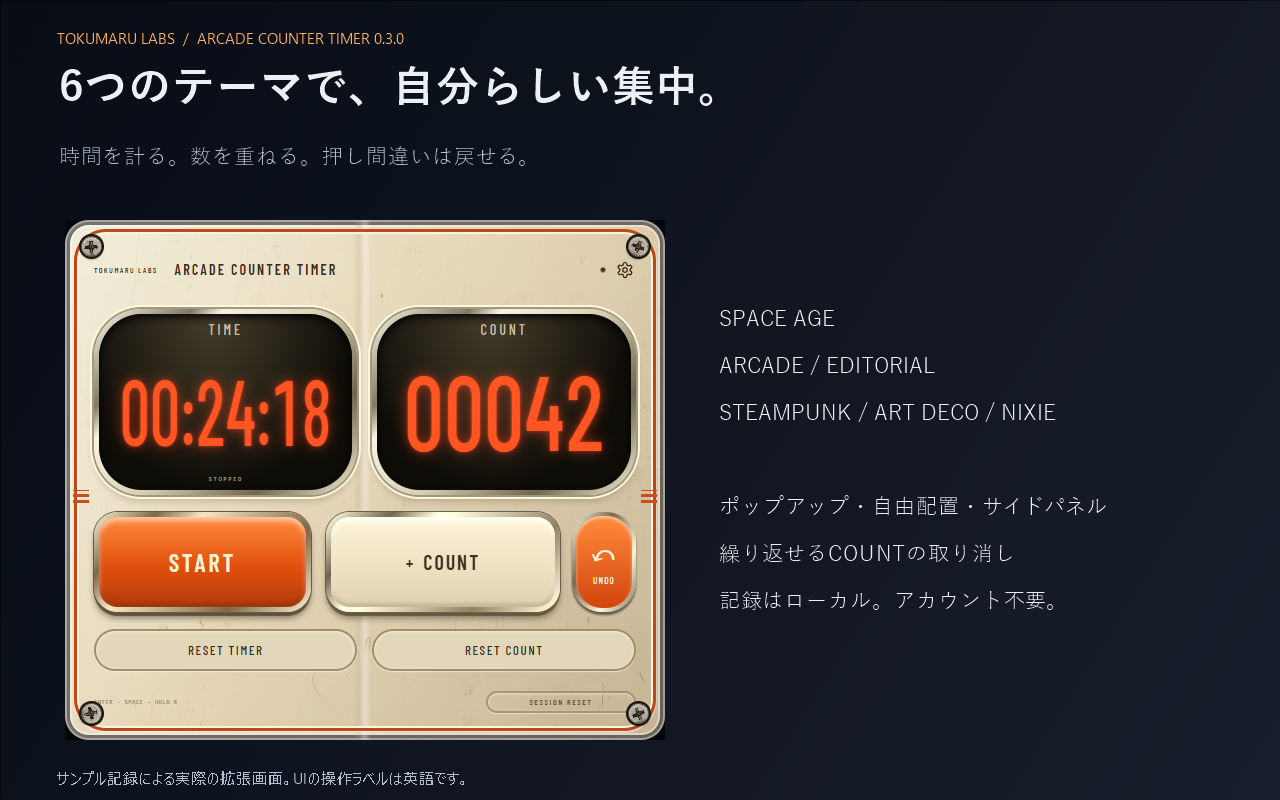
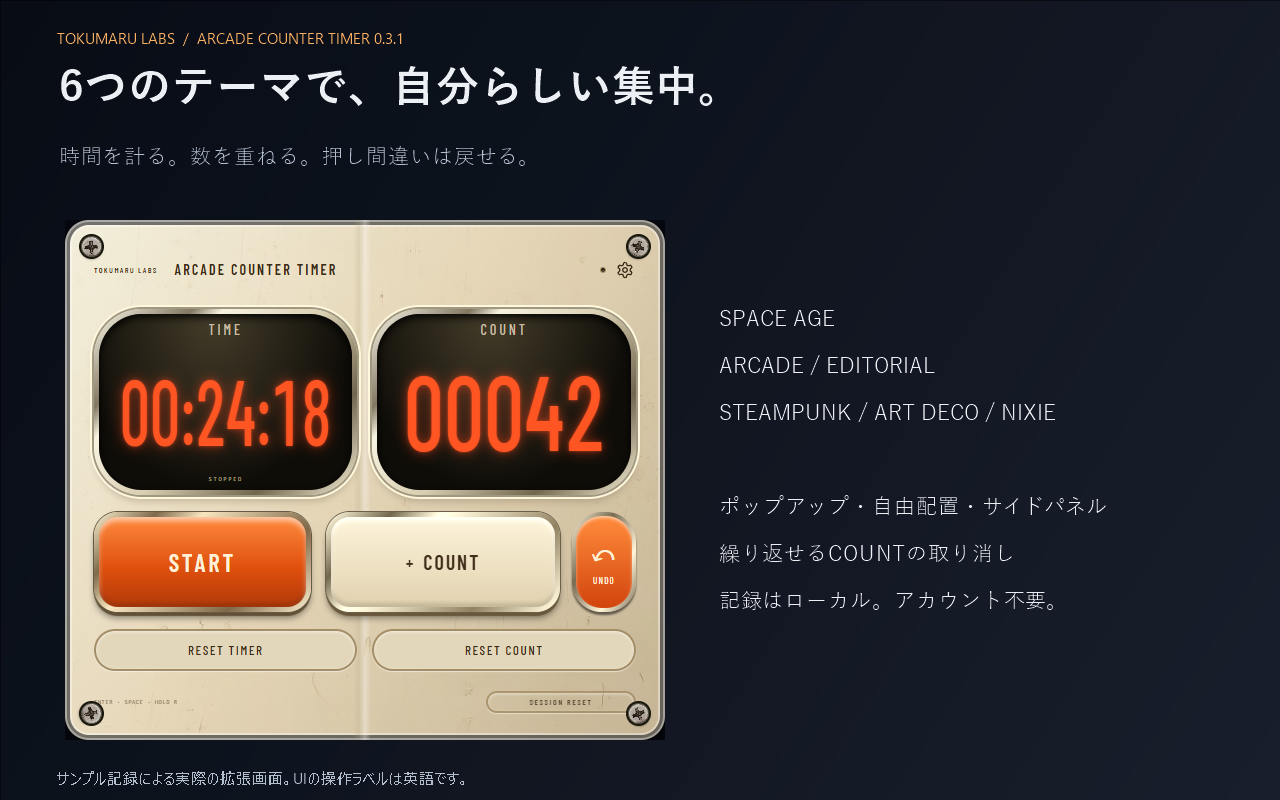
Fix Space Age red side decorations in 0.3.1

diff --git a/themes.css b/themes.css
@@ -64,7 +64,6 @@ body[data-material="true"] .theme-picker label{color:var(--blue)}body[data-mater
 
 /* SPACE AGE: a photographed enamel surface under a translucent overglaze. */
 .screen[data-theme="space-age"]{--bg-top:#ece4d0;--line:#a48c65;--dim:#68573c;--blue:#44341d;--orange:#ff5522;--orange-glow:#ff481c90;--red:#9e3517;--plate:#e7deca;--ink:#3c2b18;background:linear-gradient(125deg,#fffff0bb,#f5e6c988 45%,#ab997866),url('assets/themes/enamel-cream.jpg') center/cover}
-.screen[data-theme="space-age"] .material-hardware::before{content:'';position:absolute;inset:9px;border:3px solid #bf481a;border-radius:32px;box-shadow:0 1px 2px #fff,inset 0 0 0 2px #fbf4df}
 .screen[data-theme="space-age"] .view--main{background:linear-gradient(90deg,transparent 48%,#b7a98b40 49%,#fff5 50%,transparent 51%)}.screen[data-theme="space-age"] .clock{color:#b53d13}
 .screen[data-theme="space-age"] .timer,.screen[data-theme="space-age"] .countpad{border-radius:48px;background:radial-gradient(ellipse at 45% 0,#443d2a,#0f0d08 70%) padding-box,linear-gradient(135deg,#fffbed,#827862 22%,#f8f3e1 29%,#d9cfb2 52%,#71664e 77%,#f8f0d8) border-box}
 .screen[data-theme="space-age"] .undo-count{color:#fff2d9;background:linear-gradient(#ff8c3c,#d2440d) padding-box,linear-gradient(120deg,#fff5d7,#786c54 35%,#fff5d7 70%,#786c54) border-box}
@@ -191,7 +190,6 @@ body[data-material="true"] .release-notice{position:relative;inset:auto;grid-col
 .screen[data-theme="space-age"] .timer__value{scale:1 1.4}.screen[data-theme="space-age"] .countpad__value{scale:1 1.2}
 .screen[data-theme="art-deco"] .timer__value{scale:1 1.45}.screen[data-theme="art-deco"] .countpad__value{scale:1 1.3}
 .screen[data-theme="steampunk"] .timer__value{scale:1 1.2}.screen[data-theme="steampunk"] .countpad__value{scale:1 1.1}
-.screen[data-theme="space-age"] .material-hardware::after{content:'';position:absolute;left:8px;right:8px;top:52%;height:13px;background:linear-gradient(90deg,#cb4c1d 0 16px,transparent 16px calc(100% - 16px),#cb4c1d calc(100% - 16px));mask:repeating-linear-gradient(0deg,#000 0 3px,transparent 3px 6px)}
 }
 .screen[data-theme="art-deco"] .undo-count:disabled{opacity:.88;filter:none;color:#d7bd80;background:linear-gradient(#174833,#012315) padding-box,linear-gradient(120deg,#ffe5aa,#725622 40%,#fce8ae 70%,#6e521e) border-box}
 .screen[data-theme="art-deco"] .hold:not(.hold--session){border:3px solid transparent;background:linear-gradient(#103f2e,#01271b) padding-box,url("assets/themes/gold-metal.jpg") center/cover border-box;box-shadow:0 0 0 1px #493819,inset 0 2px 2px #fff2,inset 0 -2px 2px #000a,0 2px 2px #0009}

diff --git a/tests/controller.test.js b/tests/controller.test.js
@@ -26,7 +26,7 @@ test('updating preserves every old data key exactly and saves a separate recover
   const actual = f.data();
   for (const key of Object.keys(old)) assert.deepEqual(actual[key], old[key], key);
   assert.deepEqual(actual.upgradeBackupV020, old);
-  assert.equal(actual.releaseNotice.pending.version, '0.3.0');
+  assert.equal(actual.releaseNotice.pending.version, '0.3.1');
   await f.store.dispatch({ action: 'installed', reason: 'update', previousVersion: '0.1.3' });
   assert.deepEqual(f.data().upgradeBackupV020, old);
 });
@@ -80,8 +80,8 @@ test('update notification is claimed once across clients, reloads, resets and re
   assert.equal(f.data().upgradeBackupV020, null);
 });
 
-test('fresh installation, same-version reload and downgrade never announce an update', async () => {
-  for (const details of [{ reason: 'install' }, { reason: 'update', previousVersion: '0.3.0' }, { reason: 'update', previousVersion: '0.4.0' }]) {
+test('fresh installation, cosmetic update, same-version reload and downgrade never announce an update', async () => {
+  for (const details of [{ reason: 'install' }, { reason: 'update', previousVersion: '0.3.0' }, { reason: 'update', previousVersion: '0.3.1' }, { reason: 'update', previousVersion: '0.4.0' }]) {
     const f = fixture();
     await f.store.dispatch({ action: 'installed', ...details });
     assert.equal(await f.store.dispatch({ action: 'claimNotice' }), null);
@@ -100,7 +100,7 @@ test('0.2.0 update announces six themes and undo once without replacing the exis
   for (const key of Object.keys(old)) assert.deepEqual(f.data()[key], old[key]);
   assert.deepEqual(f.data().upgradeBackupV020, backup);
   const notice = await f.store.dispatch({ action: 'claimNotice' });
-  assert.equal(notice.version, '0.3.0');
+  assert.equal(notice.version, '0.3.1');
   assert.equal(notice.notes.length, 1);
   assert.match(notice.notes[0].en, /Six themes.*undo/);
   assert.match(notice.notes[0].ja, /6つのテーマ.*取り消し/);

diff --git a/tests/locales.test.js b/tests/locales.test.js
@@ -25,7 +25,7 @@ test('the manifest declares only the permissions required for the three surfaces
   const manifest = readJson('manifest.json');
 
   assert.equal(manifest.manifest_version, 3);
-  assert.equal(manifest.version, '0.3.0');
+  assert.equal(manifest.version, '0.3.1');
   assert.equal(manifest.action.default_popup, 'popup.html');
   assert.deepEqual(manifest.permissions, ['storage', 'activeTab', 'scripting', 'sidePanel']);
   assert.equal(manifest.host_permissions, undefined);

diff --git a/src/release.js b/src/release.js
@@ -1,5 +1,5 @@
 // Release notices are bundled text, never remote announcements.
-export const RELEASE_VERSION = '0.3.0';
+export const RELEASE_VERSION = '0.3.1';
 const releases = [
   { version: '0.1.2', en: 'Optional live clock in the header', ja: 'ヘッダーに現在時刻を表示できます' },
   { version: '0.1.3', en: 'Selectable visual themes', ja: 'テーマを選べるようになりました' },

diff --git a/store-listing/review-notes.md b/store-listing/review-notes.md
@@ -1,16 +1,16 @@
-# Notes for reviewers — 0.3.0
+# Notes for reviewers — 0.3.1
 
 Paste the block into the Developer Dashboard. Existing item cfonffmpidgimppooikhhhlceaoipkeb.
 
 ```
-Arcade Counter Timer is a local count-up timer and counter. This updates the same item from 0.2.0 to 0.3.0 with six themes and repeatable COUNT undo. No login, remote service, new permission or paid feature is needed.
+Arcade Counter Timer is a local count-up timer and counter. Version 0.3.1 removes the red-orange perimeter stripe and side ticks from the Space Age theme. The six themes, repeatable COUNT undo, storage schema and permissions are unchanged from 0.3.0. No login, remote service or paid feature is needed.
 
 1. Open the toolbar popup and press START/STOP. Closing and reopening preserves elapsed time.
 2. Press COUNT three times, then UNDO repeatedly. Each operation removes one retained count and its original day's statistics. Reopen Chrome between operations to verify that undo history persists. Older aggregate counts are not retrospectively undoable; a valid one-step receipt from a prior build imports as one step.
 3. Settings offers Space Age, Arcade, Editorial, Steampunk, Art Deco and Nixie. Space Age replaces the old default while preserving all records. Steampunk flips changed digit halves; Nixie shows complete glass housings. Sound and effects are optional, and reduced motion is respected.
 4. Try the existing FLOATING mode on a normal HTTPS page and the native SIDE PANEL. All views share the same timer, counts and undo history. Protected browser/Web Store pages cannot host floating UI.
 5. Hold RESET TIMER, RESET COUNT or SESSION RESET. Daily statistics remain; all undo history clears. START/STOP, theme and ordinary settings changes preserve undo history. Use disposable data for reset tests. CLEAR ALL DATA remains confirmation-protected.
-6. Update the existing 0.2.0 item without uninstalling. Records/settings and any existing upgradeBackupV020 snapshot remain. The 0.3.0 NEW FEATURE notice appears once, then does not replay on reopen or same-version reload. Fresh installs show no update notice.
+6. Update the existing item without uninstalling. Records/settings, undo history and any existing upgradeBackupV020 snapshot remain. Updating from 0.3.0 shows no new feature notice for this cosmetic patch. Updating from 0.2.0 still announces the six themes and repeated undo once. Fresh installs show no update notice.
 
 Only storage, activeTab, scripting and sidePanel are requested. No persistent host permissions. User-triggered code places its own UI without extracting page contents. A local worker serializes changes. Stored records include timer, count, local undo history, daily totals, preferences, an existing recovery snapshot and notice receipt. Nothing is transmitted. All fonts, images and scripts are bundled; attribution is accessible in settings.
 ```

diff --git a/store-listing/update-v0.3.1.md b/store-listing/update-v0.3.1.md
@@ -1,0 +1,9 @@
+# 0.3.1 Chrome Web Store submission
+
+Update the existing item `cfonffmpidgimppooikhhhlceaoipkeb` with `arcade-counter-timer-v0.3.1-chrome-web-store.zip`. Preserve the existing audience and automatic publication after review. Do not create a new item or uninstall the existing extension.
+
+This cosmetic patch removes Space Age's red-orange perimeter stripe and side ticks across all three surfaces. The enamel housing, controls and other five themes remain. Permissions, schema, timer/count behavior, statistics and retained undo history are unchanged.
+
+The submission kit includes regenerated English/Japanese screenshots and the ZIP checksum. Upload the matching screenshots with the package. Use the supplied short review instructions. If a previous submission is still under review, inspect the dashboard's available update workflow before replacing it.
+
+A successful upload or submission is not proof of public availability. Record the dashboard's actual status and verify the published version after approval.

diff --git a/store-listing/submission-checklist.md b/store-listing/submission-checklist.md
@@ -9,15 +9,15 @@ the declarations and the final "Submit for review" are all manual.**
 - [ ] `npm test` passes
 - [ ] `npm run verify` passes
 - [ ] `npm run package` has produced
-      `dist/arcade-counter-timer-v0.3.0-chrome-web-store.zip`
+      `dist/arcade-counter-timer-v0.3.1-chrome-web-store.zip`
 - [ ] The ZIP has been loaded unpacked in Chrome once and manually exercised
 - [ ] The URLs in `urls.md` still load
 
 ## Package
 
 - [ ] Open the existing published Arcade Counter Timer item; retain its ID
-- [ ] Upload `dist/arcade-counter-timer-v0.3.0-chrome-web-store.zip`
-- [ ] The Dashboard's manifest analysis reports version **0.3.0**
+- [ ] Upload `dist/arcade-counter-timer-v0.3.1-chrome-web-store.zip`
+- [ ] The Dashboard's manifest analysis reports version **0.3.1**
 - [ ] It reports **storage, activeTab, scripting and sidePanel**
 - [ ] It reports no host permissions and no remote code warnings
 - [ ] The item name and description are picked up from `_locales/en` — the

diff --git a/CHANGELOG.md b/CHANGELOG.md
@@ -6,6 +6,12 @@ project uses [Semantic Versioning](https://semver.org/spec/v2.0.0.html).
 
 ## [Unreleased]
 
+## [0.3.1] — 2026-10-26
+
+### Fixed
+- Remove the red-orange perimeter stripe and side ticks from Space Age across popup, floating and side-panel views.
+- Preserve the enamel housing, controls, other themes, statistics and undo history. No new permissions or update notice for this cosmetic patch.
+
 ## [0.3.0] — 2026-10-25
 
 ### Added

diff --git a/store-listing/urls.md b/store-listing/urls.md
@@ -27,5 +27,5 @@ https://github.com/tokumaru-labs/arcade-counter-timer/blob/main/PRIVACY_JA.md
 
 https://chromewebstore.google.com/detail/arcade-counter-timer/cfonffmpidgimppooikhhhlceaoipkeb
 
-Upload 0.3.0 to this existing item. Do not create a new item or change its ID.
+Upload 0.3.1 to this existing item. Do not create a new item or change its ID.
 Public availability must be verified after review; a submitted draft is not a live release.

diff --git a/README_JA.md b/README_JA.md
@@ -9,7 +9,7 @@
 
 <img src="store-assets/source/popup-main.png" alt="Arcade Counter Timer のポップアップ。動作中のタイマー、大きなカウント、START と COUNT ボタン" width="300">
 
-バージョン 0.3.0 ／ Tokumaru Labs ／ Chrome 拡張機能（Manifest V3）
+バージョン 0.3.1 ／ Tokumaru Labs ／ Chrome 拡張機能（Manifest V3）
 
 ## 表示モードと更新後のデータ
 

diff --git a/README.md b/README.md
@@ -34,7 +34,7 @@ small arcade machine for a fraction of a second when you hit a milestone.
 
 <img src="store-assets/source/popup-main.png" alt="The Arcade Counter Timer popup: a running timer, a large count, and START and COUNT buttons" width="300">
 
-Version 0.3.0 · by Tokumaru Labs · Chrome Extension (Manifest V3)
+Version 0.3.1 · by Tokumaru Labs · Chrome Extension (Manifest V3)
 
 ## What it does
 

diff --git a/PRIVACY_JA.md b/PRIVACY_JA.md
@@ -3,7 +3,7 @@
 # プライバシーポリシー — Arcade Counter Timer
 
 **最終更新日：2026-10-25**
-**対象：Arcade Counter Timer 0.3.0（Tokumaru Labs）**
+**対象：Arcade Counter Timer 0.3.1（Tokumaru Labs）**
 
 サーバー、アカウント、解析、広告、クラウド同期、リモートコードはありません。
 利用者のデータを外部へ送信しません。
